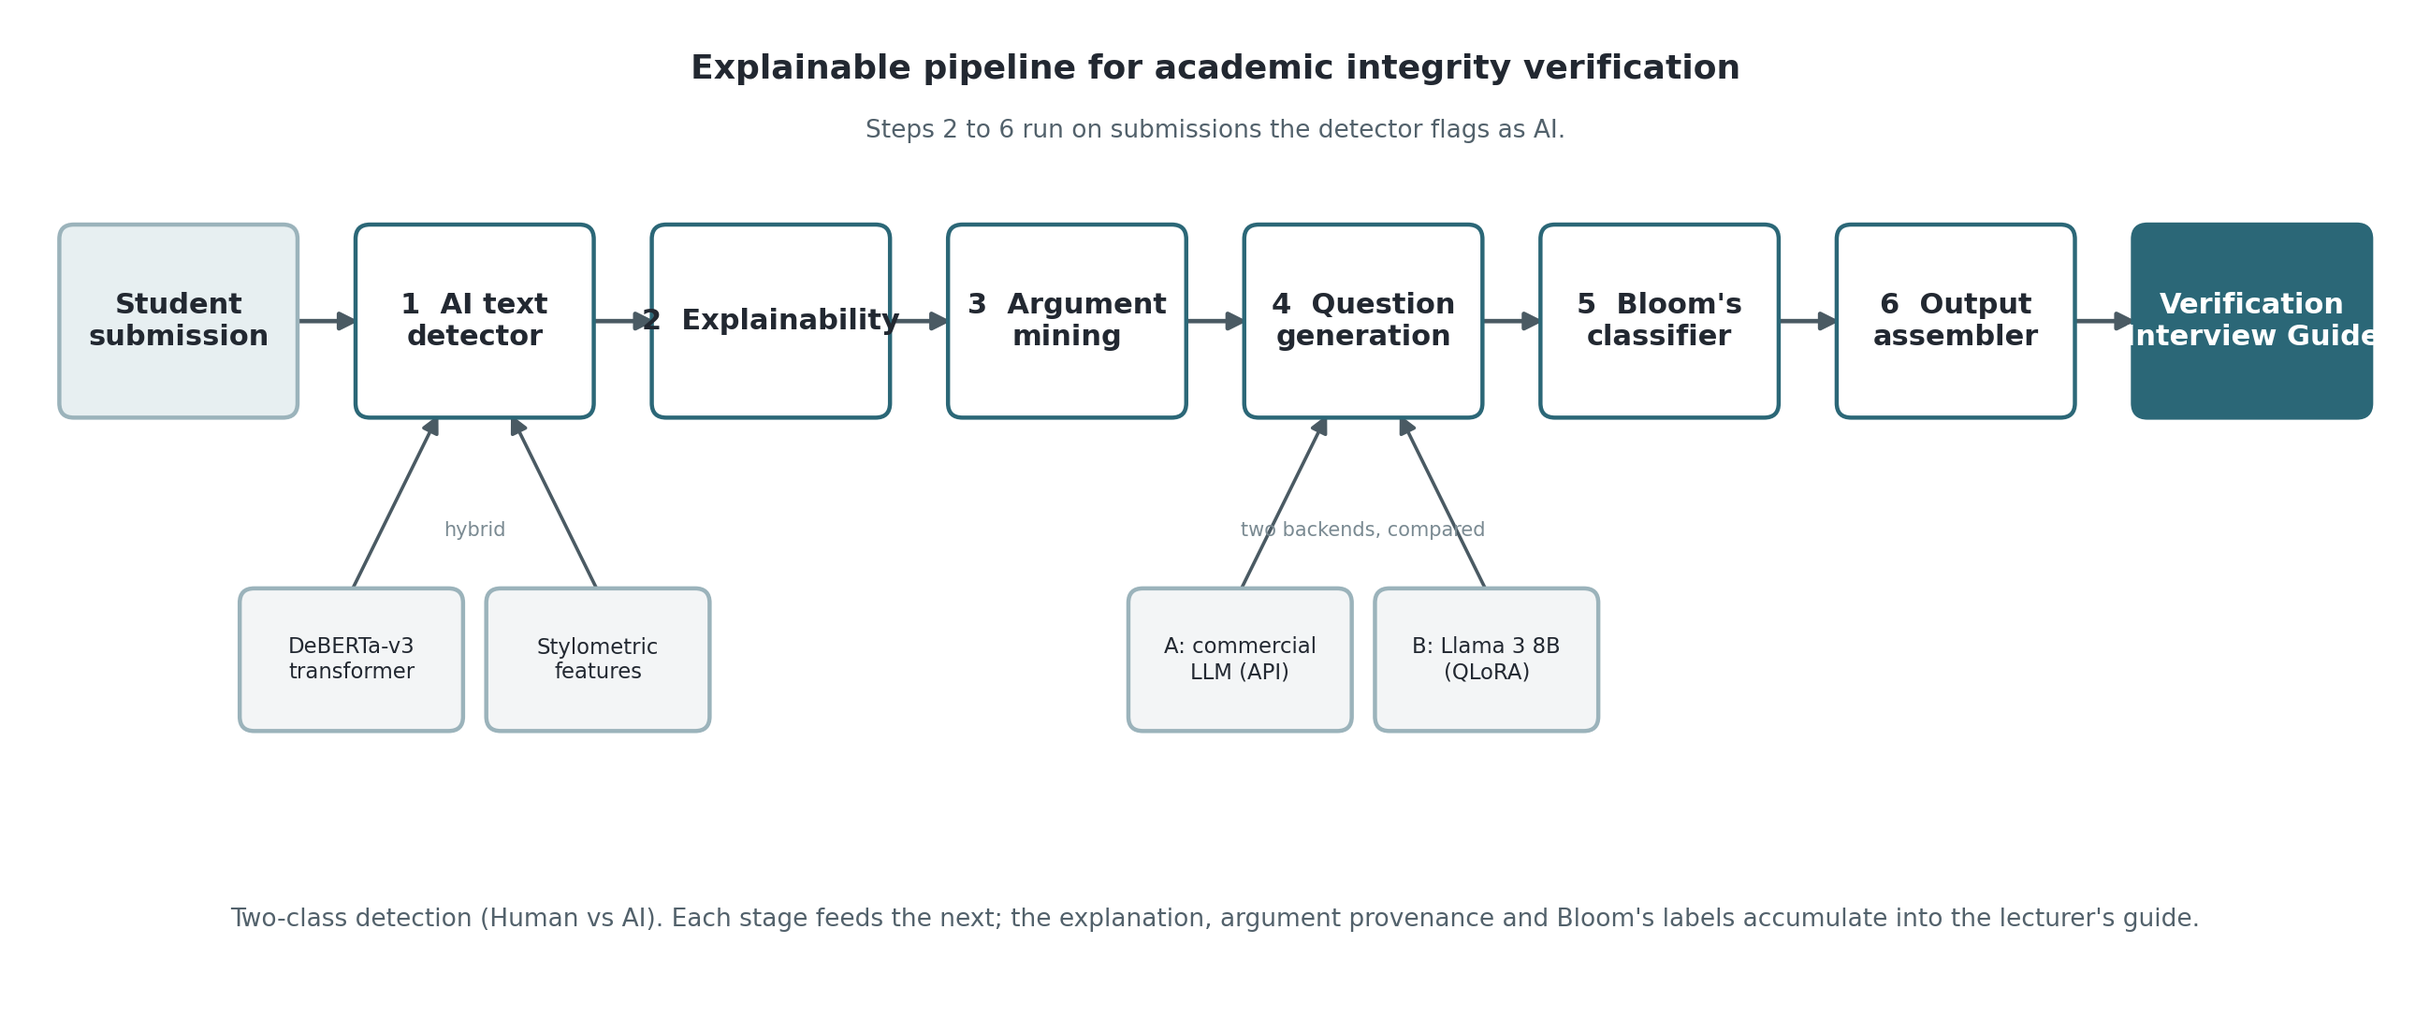
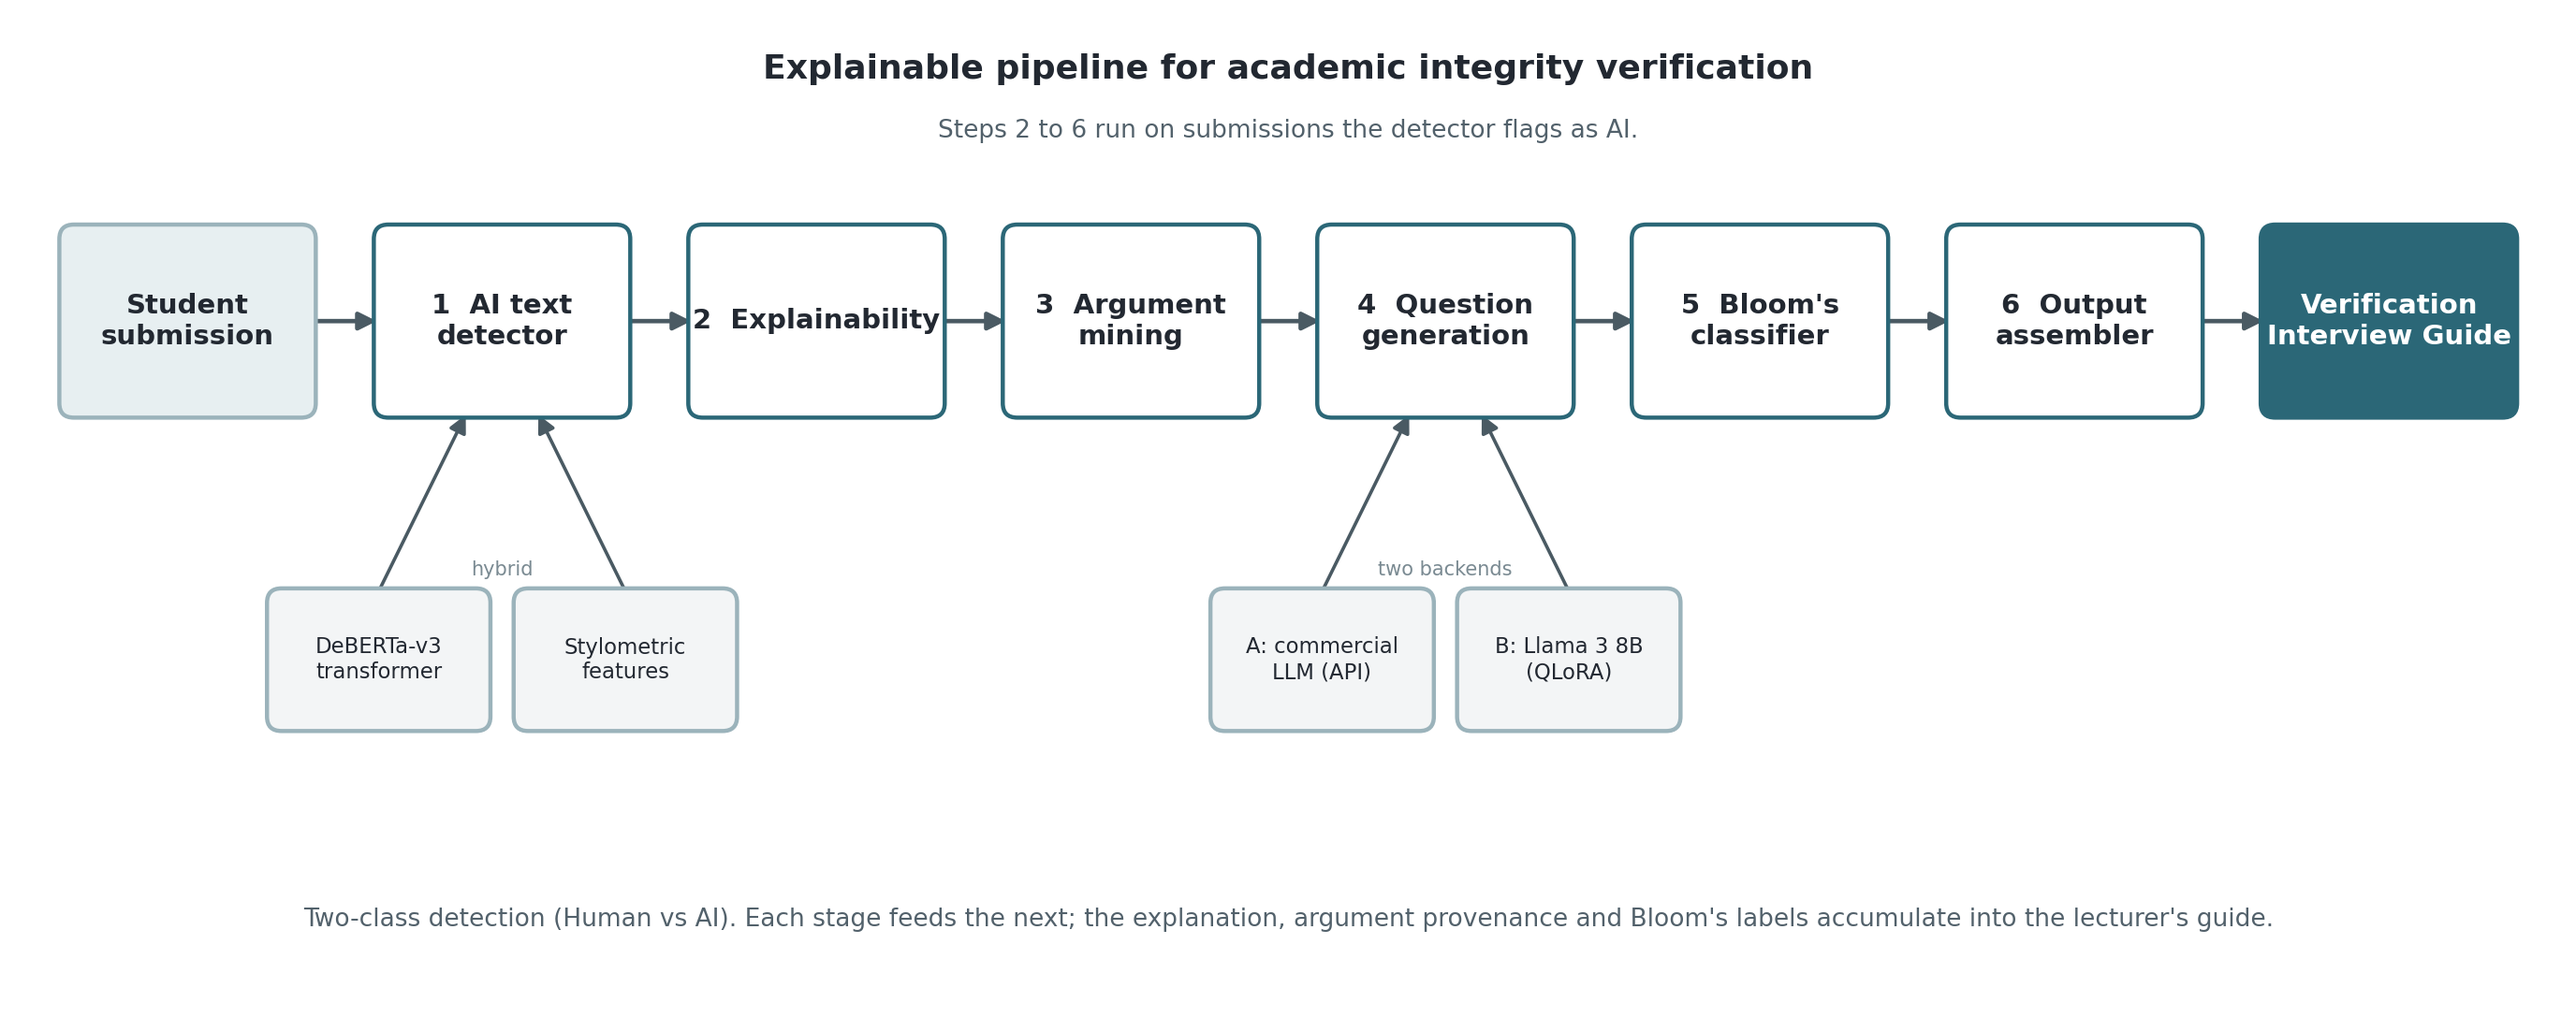
Polish architecture diagram for slide readability

diff --git a/dissertation/presentation/make_architecture.py b/dissertation/presentation/make_architecture.py
@@ -27,10 +27,10 @@ SUB_FILL = "#f3f5f6"
 SUB_EDGE = "#9bb3bb"
 ARROW = "#4a5a63"
 
-W, H = 16.5, 6.8
+W, H = 17.5, 6.8
 
 
-def box(ax, cx, cy, w, h, title, *, fill, edge, tcolor, fs=11, bold=True, sub=None):
+def box(ax, cx, cy, w, h, title, *, fill, edge, tcolor, fs=10.5, bold=True, sub=None):
     p = FancyBboxPatch(
         (cx - w / 2, cy - h / 2), w, h,
         boxstyle="round,pad=0.02,rounding_size=0.10",
@@ -108,12 +108,12 @@ def main() -> None:
 
     # Detector is hybrid: transformer + stylometric features.
     sub_pair(xs[1], "DeBERTa-v3\ntransformer", "Stylometric\nfeatures")
-    ax.text(xs[1], ysub + sbh / 2 + 0.42, "hybrid", ha="center", va="center",
+    ax.text(xs[1], ysub + sbh / 2 + 0.15, "hybrid", ha="center", va="center",
             fontsize=7.5, color="#7a8a92")
 
     # Question generation: two backends, compared (a core contribution).
     sub_pair(xs[4], "A: commercial\nLLM (API)", "B: Llama 3 8B\n(QLoRA)")
-    ax.text(xs[4], ysub + sbh / 2 + 0.42, "two backends, compared", ha="center",
+    ax.text(xs[4], ysub + sbh / 2 + 0.15, "two backends", ha="center",
             va="center", fontsize=7.5, color="#7a8a92")
 
     # Headline and caption.
